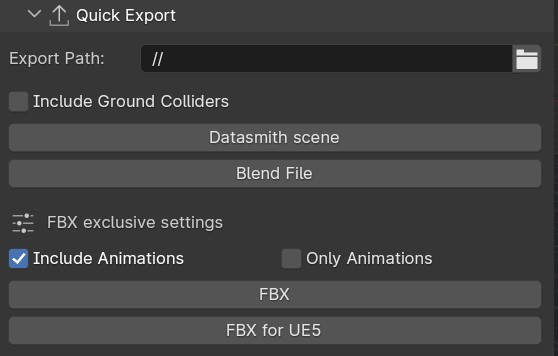
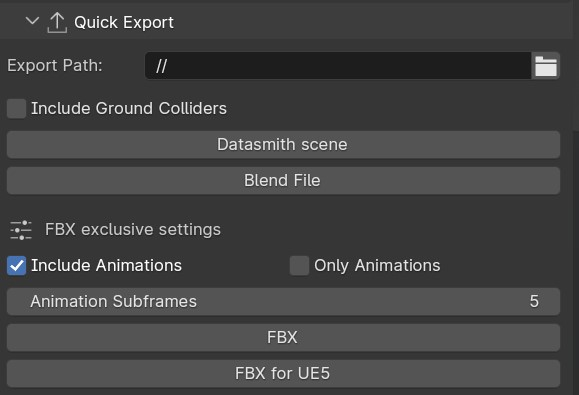
Updated Subframes

diff --git a/docs/source/manual-gearbox.rst b/docs/source/manual-gearbox.rst
@@ -260,6 +260,11 @@ Export Path:
 Include Ground Colliders:
     * Includes all the ground detection meshes in each of the exported file.
 
+FBX Exclusive Settings:
+
+Animation Subframes:
+    * LC exports the amount of subframes per frame of animation indicated here. The fewer subframes, the faster. Too few subframes can cause reverse-spinning wheels.
+
 Include Animations:
     * When checked, LC will export the meshes, the rig and animations. When unchecked, LC will only export the meshes and the rig.
 
